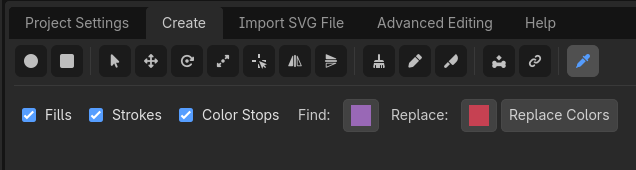
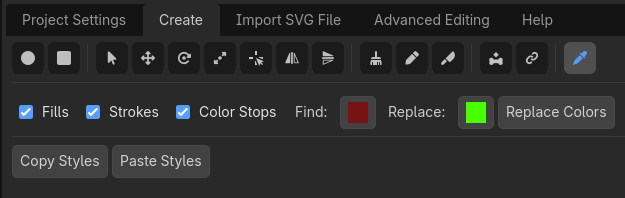
updates readme, prepares release.

diff --git a/README.md b/README.md
@@ -105,6 +105,8 @@ You can find the rest of the explainer videos on this playlist:
 	- [Changing the color stop positions](#changing-the-color-stop-positions)
 	- [Add new color stops](#add-new-color-stops)
 - [Color Tools](#color-tools)
+	- [Find and Replace a color in the entire scene](#find-and-replace-a-color-in-the-entire-scene)
+	- [Copy and Paste Styles of a shape](#copy-and-paste-styles-of-a-shape)
 - [Ways to prevent 'over-selecting' `ScalableVectorShape2D` nodes](#ways-to-prevent-over-selecting-scalablevectorshape2d-nodes)
 - [Using the Inspector Form for `ScalableVectorShape2D`](#using-the-inspector-form-for-scalablevectorshape2d)
 	- [Inspector Form](#inspector-form)
@@ -516,11 +518,13 @@ Dragging them without holding shift will allow for unmirrored / shap corners:
 
 ## Closing the loop and breaking the loop
 
-Double clicking on the start node, or end node of an unclosed shape will close the loop.
+Double clicking or pressing `Alt + Right Click` on the start node, or end node of an unclosed shape will close the loop.
 
-Double clicking on the start-/endpoint again will break the loop back up:
+Double clicking on a point of a closed loop will break the loop. 
 
 ![closed loop](./addons/curved_lines_2d/screenshots/09-loop.png)
+
+Note that breaking the loop at another point than the start+end point will change the point indices of your curve and references to points in an animation player will change. 
 
 You can recognise the start-/endpoint(s) by the infinity symbol: ∞
 
@@ -783,12 +787,34 @@ Double clicking on the gradient line will add a new color stop (the assigned col
 
 # Color Tools
 
-Under color tools, currently, there is the Find / Replace color form. With this you can change one color with another anywhere in the open scene for the strokes, fills and gradient stops of a `ScalableVectorShape2D`. 
+Under color tools, currently, you can:
 
-The color replacement does not apply to shape nodes within an imported scene.
+1. Find / Replace colors in the entire scene
+2. Copy and paste all the style elements of a shape
 
 ![color tools](./addons/curved_lines_2d/screenshots/color-tools.png)
 
+## Find and Replace a color in the entire scene
+
+With the Find / Replace color form you can change one color with another anywhere in the open scene for the strokes, fills and gradient stops of a `ScalableVectorShape2D`. 
+
+The color replacement does not apply to shape nodes within an imported scene.
+
+## Copy and Paste Styles of a shape
+
+Using the `Copy Styles` button you can copy the following properties of the selected shape:
+
+- Fill color
+- Gradient Setting (Color Stops, Gradient Orientation and Type)
+- Stroke Color
+- Stroke Width
+- Stroke Width Curve
+- Stroke Settings (Cap, Join, Align)
+- Line2D usage
+
+Using the `Paste Styles` button those listed properties are overwritten for all the selected shapes that are owned by the open scene.
+
+You can use the keyboard shortcut `Ctrl + Alt + C` in the 2D editor to copy styles and `Ctrl + Alt + V` to paste them to one selected shape.
 
 # Ways to prevent 'over-selecting' `ScalableVectorShape2D` nodes
 

diff --git a/addons/curved_lines_2d/README.md b/addons/curved_lines_2d/README.md
@@ -105,6 +105,8 @@ You can find the rest of the explainer videos on this playlist:
   - [Changing the color stop positions](#changing-the-color-stop-positions)
   - [Add new color stops](#add-new-color-stops)
 - [Color Tools](#color-tools)
+  - [Find and Replace a color in the entire scene](#find-and-replace-a-color-in-the-entire-scene)
+  - [Copy and Paste Styles of a shape](#copy-and-paste-styles-of-a-shape)
 - [Ways to prevent 'over-selecting' `ScalableVectorShape2D` nodes](#ways-to-prevent-over-selecting-scalablevectorshape2d-nodes)
 - [Using the Inspector Form for `ScalableVectorShape2D`](#using-the-inspector-form-for-scalablevectorshape2d)
   - [Inspector Form](#inspector-form)
@@ -516,11 +518,13 @@ Dragging them without holding shift will allow for unmirrored / shap corners:
 
 ## Closing the loop and breaking the loop
 
-Double clicking on the start node, or end node of an unclosed shape will close the loop.
+Double clicking or pressing `Alt + Right Click` on the start node, or end node of an unclosed shape will close the loop.
 
-Double clicking on the start-/endpoint again will break the loop back up:
+Double clicking or pressing `Alt + Right Click` on a point of a closed loop will break the loop. 
 
 ![closed loop](./screenshots/09-loop.png)
+
+Note that breaking the loop at another point than the start+end point will change the point indices of your curve and references to points in an animation player will change. 
 
 You can recognise the start-/endpoint(s) by the infinity symbol: ∞
 
@@ -783,12 +787,34 @@ Double clicking on the gradient line will add a new color stop (the assigned col
 
 # Color Tools
 
-Under color tools, currently, there is the Find / Replace color form. With this you can change one color with another anywhere in the open scene for the strokes, fills and gradient stops of a `ScalableVectorShape2D`. 
+Under color tools, currently, you can:
 
-The color replacement does not apply to shape nodes within an imported scene.
+1. Find / Replace colors in the entire scene
+2. Copy and paste all the style elements of a shape
 
 ![color tools](./screenshots/color-tools.png)
 
+## Find and Replace a color in the entire scene
+
+With the Find / Replace color form you can change one color with another anywhere in the open scene for the strokes, fills and gradient stops of a `ScalableVectorShape2D`. 
+
+The color replacement does not apply to shape nodes within an imported scene.
+
+## Copy and Paste Styles of a shape
+
+Using the `Copy Styles` button you can copy the following properties of the selected shape:
+
+- Fill color
+- Gradient Setting (Color Stops, Gradient Orientation and Type)
+- Stroke Color
+- Stroke Width
+- Stroke Width Curve
+- Stroke Settings (Cap, Join, Align)
+- Line2D usage
+
+Using the `Paste Styles` button those listed properties are overwritten for all the selected shapes that are owned by the open scene.
+
+You can use the keyboard shortcut `Ctrl + Alt + C` in the 2D editor to copy styles and `Ctrl + Alt + V` to paste them to one selected shape.
 
 # Ways to prevent 'over-selecting' `ScalableVectorShape2D` nodes
 

diff --git a/CHANGELOG.md b/CHANGELOG.md
@@ -1,5 +1,15 @@
 # Changelog
 
+
+## 3.4.0 - Copy Styles / Take a Break
+
+### Added
+
+- Copy + Paste styling properties from/to a selected ScalableVectorShape2D (colors, stroke width, line width curve, etc) using Ctrl+Alt+C and Ctrl+Alt+V
+- Paste to multiple shapes using the button in the bottom dock under Color Tools
+- Break a closed curve at any point in the loop in stead of only at the 'joining point' of point 0 and point N (where N = the amount of points in the curve minus one)
+
+
 ## 3.3.2 - Find / Replace color
 
 ### Added
